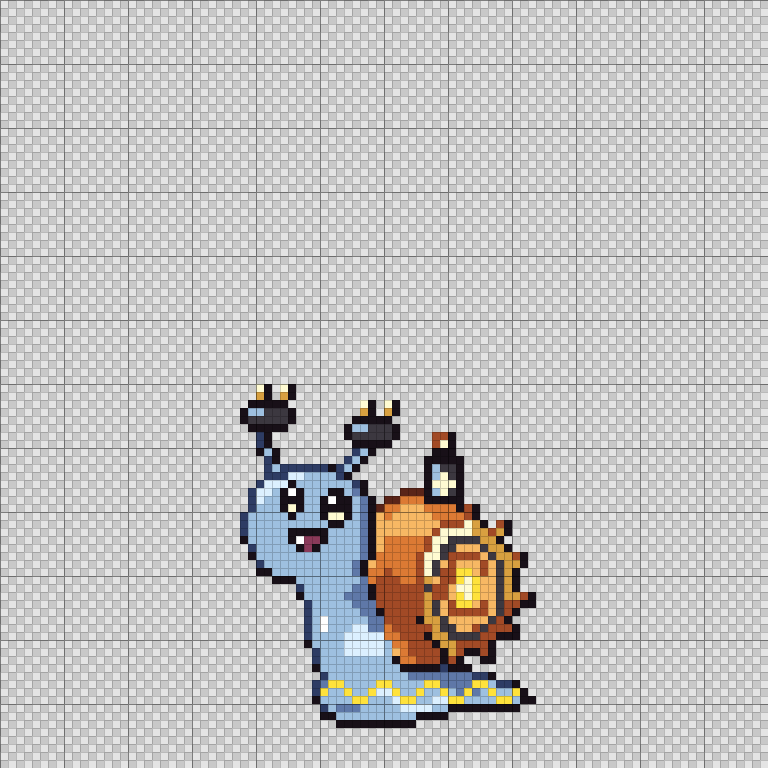
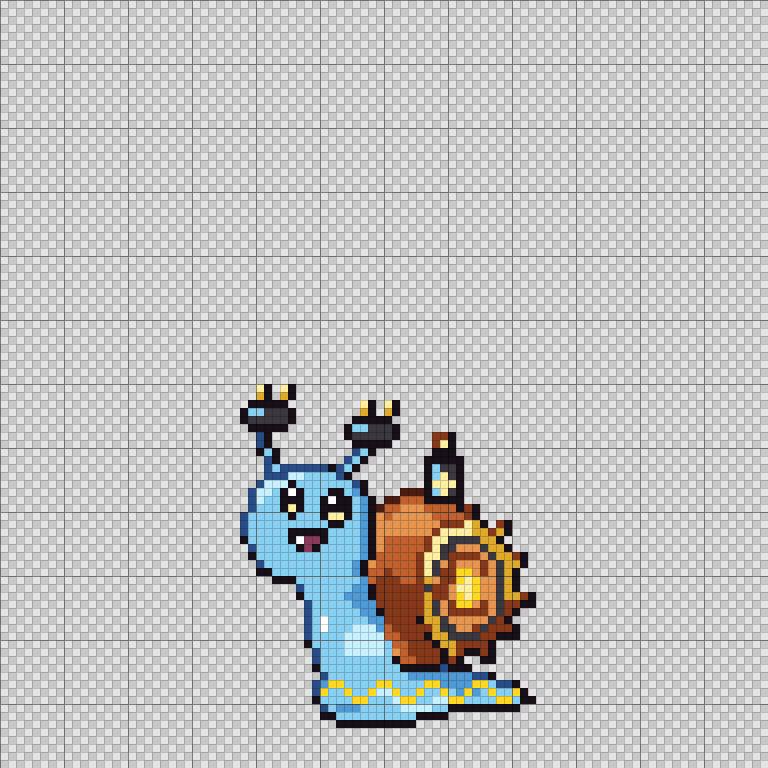
Zapail wip: saturated BW-style palette (was washed out like a shiny); slit-eye option
Claude-Session: https://claude.ai/code/session_01NDaBcuNY8LLNS1rzT9Z9Co

diff --git a/art/creatures/wip/zapail_tr.px.js b/art/creatures/wip/zapail_tr.px.js
@@ -1,24 +1,25 @@
 // Zapail, translation of the concept art (art/concepts/zapail.png) — work in progress, awaiting
-// the owner's review. Drawn on a 37x44 grid from a gridded underlay of the concept: the
-// slime body, copper shell, gear face and coil painted as shapes, then the plugs, eyes, mouth
-// and the zigzag Spark Trail line by hand. Feet on y = 91.
+// the owner's review. 37x44 grid drawn from a gridded underlay of the concept: the silhouette
+// and the slime/copper light and shade from the concept, the gear face, plugs, face and the
+// zigzag Spark Trail line by hand. Two face options: small round BW eyes, or Torkoal-style slits.
+// Feet on y = 91.
 
 pal({
-  A: "#dcf0ff",
-  B: "#2e3c64",
-  O: "#f7b864",
-  Q: "#5a2418",
-  Y: "#fffbd2",
-  a: "#9ec0e0",
-  b: "#5f78a8",
+  A: "#c6f2ff",
+  B: "#284c88",
+  O: "#e8944c",
+  Q: "#4c1c10",
+  Y: "#fff0a0",
+  a: "#86d0f4",
+  b: "#4c9ad8",
   k: "#181018",
   m: "#8a3a5a",
   n: "#3c3840",
-  o: "#dc7a34",
-  q: "#a24a26",
-  u: "#d8a040",
+  o: "#c4602c",
+  q: "#883818",
+  u: "#e0aa28",
   w: "#ffffff",
-  y: "#ffe23c",
+  y: "#ffd820",
 })
 
 sprite("zapail_tr", { w: 96, h: 96 }, (c) => c.grid(30, 48, `
@@ -52,7 +53,53 @@ sprite("zapail_tr", { w: 96, h: 96 }, (c) => c.grid(30, 48, `
     ........BaaaaabbbqqqqqqunOqyyOqOnqqkk
     ........BaaaaaabbkqqqqqunOqqqqqOnqk
     ........BawaaaaabbqqqqkuunOOOOOnqk
-    ........BawaaaAAbboqqqqqunnOOqnqqqk
+    ........BawaaaAAAboqqqqqunnOOqnqqqk
+    ........BaaaaAAAAAooqqqkuunnnnqqkkk
+    ........kaaaaAAAAAaooqqqkuuqqqqk
+    .........BaaaAAAAAaOoqqqqkuqkkqk
+    .........Baaaaaaaaakooqqqkqk..kk
+    .........kaaaaaaaaaakkkkkBkkk
+    ..........BaaaaaaaaaabbbbbbbbBBk
+    .........BbyyaaaayyaaaayybbbbyyaBBk
+    .........ByaayaayAAyaayaayabybayaayk
+    .........kaaaayyaaaAyyaaAAyyaaaayyakk
+    ..........BabbbaaaaaAAAAaakkkkkkkkk
+    ..........kkaaaaaaaaaakkkk
+    ............kkkkkkkkkk
+    .`))
+
+sprite("zapail_tr_slit", { w: 96, h: 96 }, (c) => c.grid(30, 48, `
+    ..Yk.Yk
+    ..uk.uk
+    .kkkkk.........Yk.Yk
+    kaannnk........uk.uk
+    knnnnnk.......kkkkk
+    .kkkkk.......kaannnk
+    ..Bk.........knnnnnk....qqk
+    ..Bk..........kkkkk.....qYk
+    ..kak.........Bak.......kkk
+    ...Bk........Bak.......kkkkk
+    ...BaBBBBBBkBak........kannk
+    ...BBBAAaaaaBk.........kaYnk
+    ..BAAAaaaaaaaaBk.......kYYYk
+    .BAAakkkaaaaaabk....QQQkaYnk
+    .BAaaaYkaakkkkabk.QQoookkkkk
+    .BaaaaaaaaaYkkkbkQooOOOooookqk
+    BaaaaaaaaaaabbabkOoOOOOOooooqk
+    BaaaaaaaaaaaaaabkOOOOOOOOqqqYuk.qk
+    BaaaaakkkkkaaaabkOOOOOOOqYYYYuuquk
+    kaaaaakwmmkaaaabkOoooooqYYnnnnuuk
+    .BaaaaakmkaaaaabkOoooooqYnnOOOnuuk
+    .kaaaaaaaaaaaaabkoooooqYYnqqqqOnuuqk
+    ..BaaaaaaaaaaabkOoooooqYnOqOOOqOnuuk
+    ..kkaaaaaaaaaabkooqoooqYnqqyyOqOnuk
+    ....kkkaaaaaaaaboqqqooquOqqyYyOOnuk
+    .......BaaaaaabbkqqqqqqnqqOYYyOOnuk
+    .......kaaaaabbbkqqqqqquqqOyYyOOnuuqk
+    ........BaaaaabbbqqqqqqunOqyyOqOnqqkk
+    ........BaaaaaabbkqqqqqunOqqqqqOnqk
+    ........BawaaaaabbqqqqkuunOOOOOnqk
+    ........BawaaaAAAboqqqqqunnOOqnqqqk
     ........BaaaaAAAAAooqqqkuunnnnqqkkk
     ........kaaaaAAAAAaooqqqkuuqqqqk
     .........BaaaAAAAAaOoqqqqkuqkkqk
